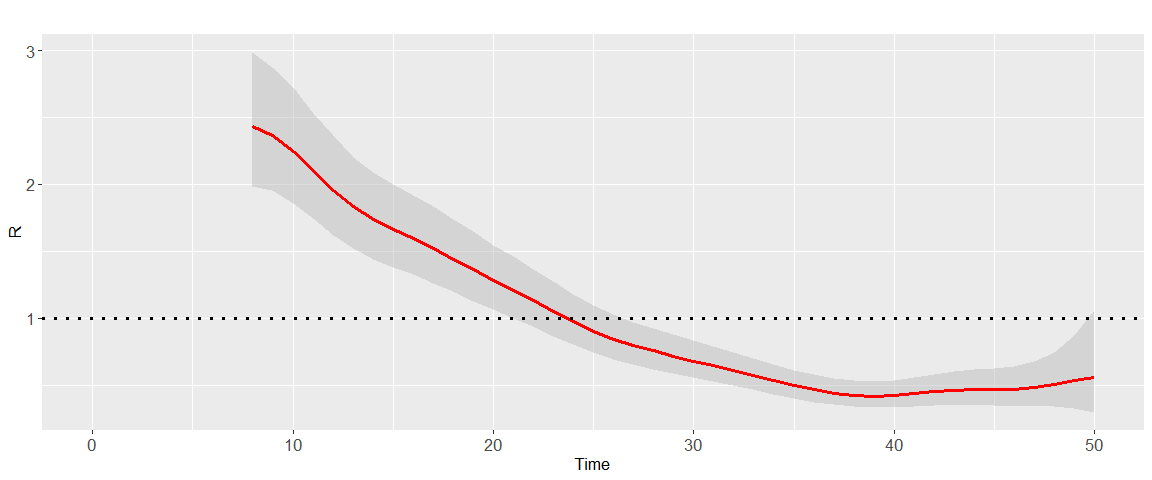
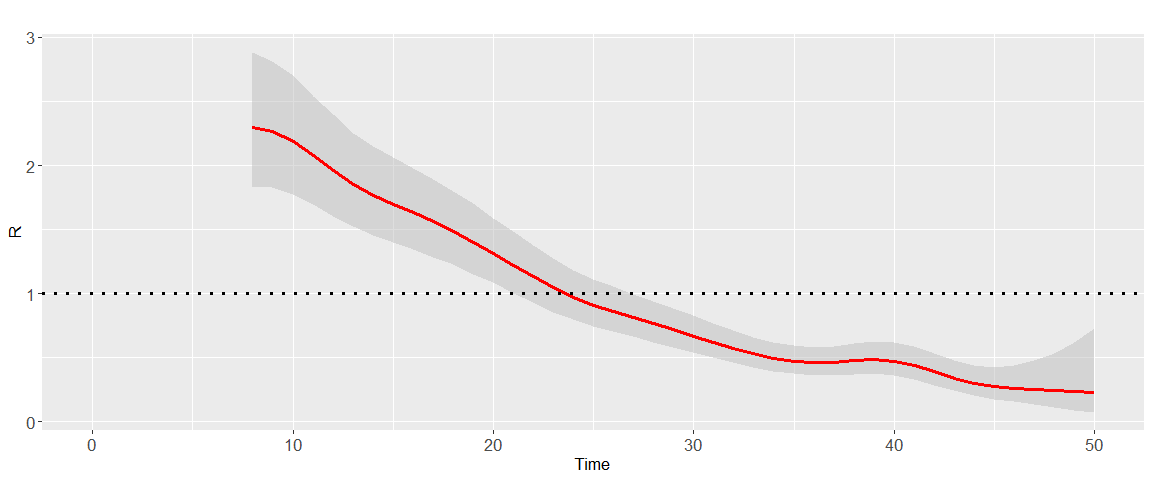
Updating proctime

diff --git a/README.md b/README.md
@@ -127,9 +127,9 @@ The simulated incidence count data can be accessed by typing:
 simepi$y
 ```
 
-    ##  [1]  19   5  14  28  29  48  70  86 131 162 224 258 319 358 481 543 620 663 750
-    ## [20] 808 815 871 843 815 735 698 602 562 514 407 333 293 250 185 132 104  90  55
-    ## [39]  41  32  26  19  19  12  11   4   4   7   3   4
+    ##  [1]  13   2  11  10  20  24  37  39  73  78 106 131 165 191 229 286 332 354 380
+    ## [20] 456 454 462 424 449 382 390 337 337 225 244 184 154 122  90  60  55  46  22
+    ## [39]  24  30  13  13   3   5   0   3   2   1   0   0
 
 The `epilps()` routine can be used to fit the epidemic data. By default,
 the LPSMAP approach is used with 30 B-splines in the interval \[1; 50\]
@@ -137,14 +137,14 @@ and a second order penalty. The `plot()` routine on the `epifit_LPSMAP`
 object can be used to plot the estimated reproduction number.
 
 ``` r
-epifit_LPSMAP <- epilps(incidence = simepi$y, serial_interval = si)
+epifit_LPSMAP <- epilps(incidence = simepi$y, serial_interval = si, tictoc = TRUE)
 ```
 
     ## Inference method chosen: LPSMAP. 
     ## Total number of days: 50. 
-    ## Mean R(t) discarding first 7 days: 0.988.
-    ## Mean 95% CI of R(t) discarding first 7 days: (0.8,1.225) 
-    ## Elapsed real time (wall clock time): 0.2 seconds.
+    ## Mean R(t) discarding first 7 days: 0.946.
+    ## Mean 95% CI of R(t) discarding first 7 days: (0.756,1.199) 
+    ## Elapsed real time (wall clock time): 0.21 seconds.
 
 ``` r
 plot(epifit_LPSMAP)
@@ -179,13 +179,13 @@ knitr::kable(epifit_LPSMAP$epifit[8:14,2:4])
 
 |     | R\_estim | R95CI\_low | R95CI\_up |
 |:----|---------:|-----------:|----------:|
-| 8   | 2.434876 |   1.986263 |  2.984814 |
-| 9   | 2.367769 |   1.951509 |  2.872817 |
-| 10  | 2.248764 |   1.855955 |  2.724709 |
-| 11  | 2.102776 |   1.747315 |  2.530550 |
-| 12  | 1.957831 |   1.622245 |  2.362839 |
-| 13  | 1.832747 |   1.524618 |  2.203150 |
-| 14  | 1.735908 |   1.441739 |  2.090099 |
+| 8   | 2.295682 |   1.829082 |  2.881312 |
+| 9   | 2.269475 |   1.831829 |  2.811680 |
+| 10  | 2.188380 |   1.772810 |  2.701366 |
+| 11  | 2.076691 |   1.699110 |  2.538180 |
+| 12  | 1.960044 |   1.603818 |  2.395391 |
+| 13  | 1.855231 |   1.526957 |  2.254078 |
+| 14  | 1.768805 |   1.454265 |  2.151375 |
 
 A smooth estimate of the epidemic curve can be obtained with the code
 below. The option `epicol` controls the color of the curve and
